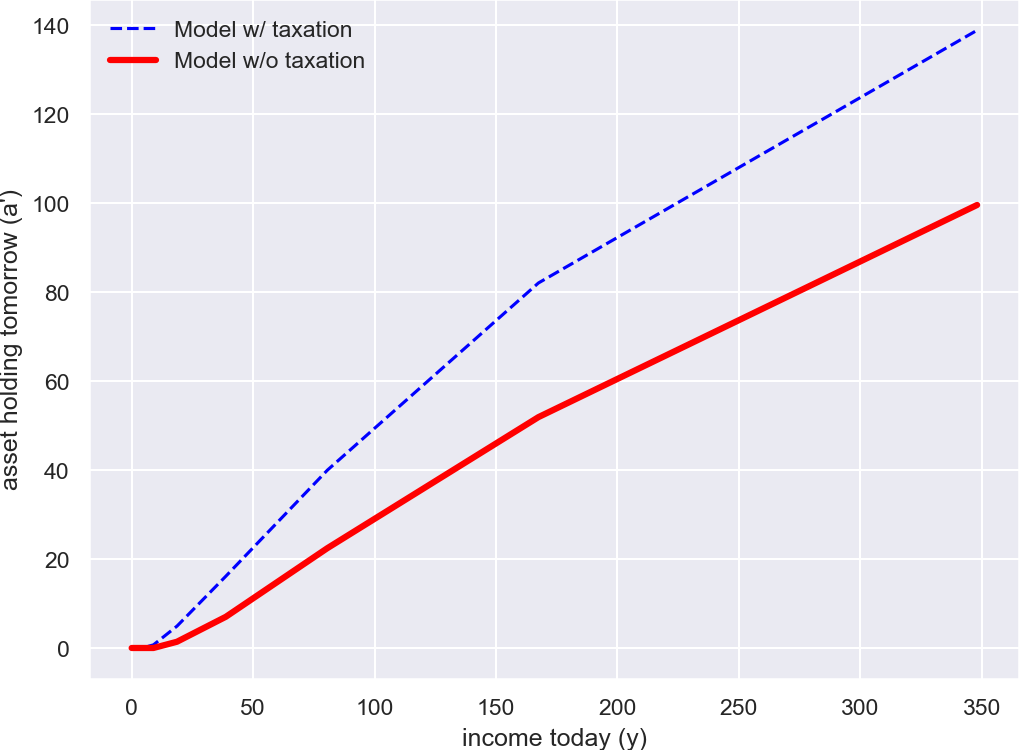
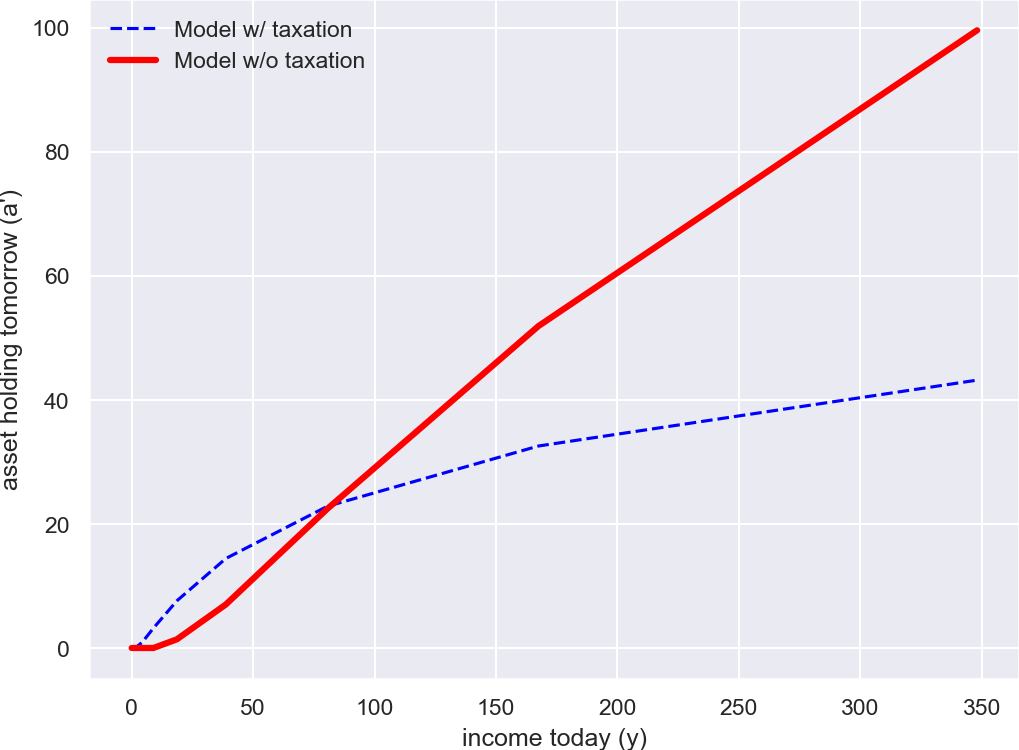
done HW4

diff --git a/HW4/mtQuantMacro4.py b/HW4/mtQuantMacro4.py
@@ -265,13 +265,12 @@ class IFP: # Income fluctuation problem
     def muc(self, y_td, a_td, a_tmrw): # marginal utility of consumption
         # Calculate consumption as the residual in the budget constraint
         c_td = self.R*a_td + y_td - a_tmrw
-        # If consumption is negative, assign NaN
-        
+        # If consumption is negative, assign very small c
         if type(c_td) is np.float64:
             if c_td <= 0:
-                c_td = np.nan
+                c_td = 0.000001
         else:
-            c_td[c_td <= 0] = np.nan
+            c_td[c_td <= 0] = 0.000001
 
         # Compute the marginal utility of consumption
         muc_td = c_td**(-self.sig) 
@@ -382,7 +381,7 @@ class IFP: # Income fluctuation problem
             diff = np.max(abs(self.a_grid[a_hat_idx_mat] - self.a_grid[a_hat_idx_guess_mat]))
             iteration += 1
             if iteration % 10 == 0:
-                print('\n Iteration {:５d}: Diff =  {:.3f}'.format(iteration, diff))
+                print('\n Iteration {:5d}: Diff = {:.3f}'.format(iteration, diff))
         toc = time.perf_counter()
         
         # Store the result as instance attributes
@@ -737,7 +736,7 @@ class IFP: # Income fluctuation problem
             diff = np.max(abs(self.a_grid[a_hat_idx_mat] - self.a_grid[a_hat_idx_guess_mat]))
             iteration += 1
             if iteration % 10 == 0:
-                print('\n Iteration {:５d}: Diff =  {:.3f}'.format(iteration, diff))
+                print('\n Iteration {:5d}: Diff =  {:.3f}'.format(iteration, diff))
         toc = time.perf_counter()
         
         # Store the result as instance attributes
@@ -809,12 +808,12 @@ class IFP_w_taxation(IFP):
     def muc(self, y_td, a_td, a_tmrw): # marginal utility of consumption
         # Calculate consumption as the residual in the budget constraint
         c_td = self.R*a_td + y_td - self.tax(y_td) - a_tmrw
-        # If consumption is negative, assign NaN        
+        # If consumption is negative, assign very small c       
         if type(c_td) is np.float64:
             if c_td <= 0:
-                c_td = np.nan
+                c_td = 0.000001
         else:
-            c_td[c_td <= 0] = np.nan
+            c_td[c_td <= 0] = 0.000001
 
         # Compute the marginal utility of consumption
         muc_td = c_td**(-self.sig) 
@@ -897,7 +896,7 @@ class IFP_w_taxation(IFP):
             diff = np.max(abs(self.a_grid[a_hat_idx_mat] - self.a_grid[a_hat_idx_guess_mat]))
             iteration += 1
             if iteration % 10 == 0:
-                print('\n Iteration {:５d}: Diff =  {:.3f}'.format(iteration, diff))
+                print('\n Iteration {:5d}: Diff =  {:.3f}'.format(iteration, diff))
         toc = time.perf_counter()
         
         # Store the result as instance attributes

diff --git a/HW4/main.py b/HW4/main.py
@@ -17,15 +17,16 @@ Create Sep 27, 2022 (Masaki Tanaka, Washington University in St. Louis)
 # =========================================================================
 # Settings
 # =========================================================================
-
-do_Q1a_c = 1
-do_Q1d1  = 1
-do_Q1d2  = 1
+# Set 1 or True to solve the question.
+# Set 0 or False to skip the question.
+do_Q1a_c = 0
+do_Q1d1  = 0
+do_Q1d2  = 0
 do_Q1e   = 1
-do_Q1f   = 1
-do_Q2a   = 1
-do_Q2b   = 1
-do_Q2c   = 1
+do_Q1f   = 0
+do_Q2a   = 0
+do_Q2b   = 0
+do_Q2c   = 0
 
 # =========================================================================
 # Load packages
@@ -147,16 +148,16 @@ if do_Q2a:
 
 if do_Q2b:
     # solve the model by policy iteration
-    model_2ab.policy_func_iter()
+    model_2ab.policy_func_iter(fname='Q2_ab.png')
     plot_Q2_graph(model_1a, model_2ab,  0, 'Q2b1.png')
     plot_Q2_graph(model_1a, model_2ab, 10, 'Q2b2.png')
     
 if do_Q2c:
-    model_2c_woT = IFP(a_lb = -0.2)
+    model_2c_woT = IFP(a_lb = -1.)
     model_2c_woT.discretize(method='Rouwenhorst')
     model_2c_woT.policy_func_iter(fname='Q2_model_wo_T.png')
     
-    model_2c_wT  = IFP_w_taxation(a_lb = -0.2)
+    model_2c_wT  = IFP_w_taxation(a_lb = -1.)
     model_2c_wT.discretize(method='Rouwenhorst')
     model_2c_wT.policy_func_iter(fname='Q2_model_w_T.png')
     
